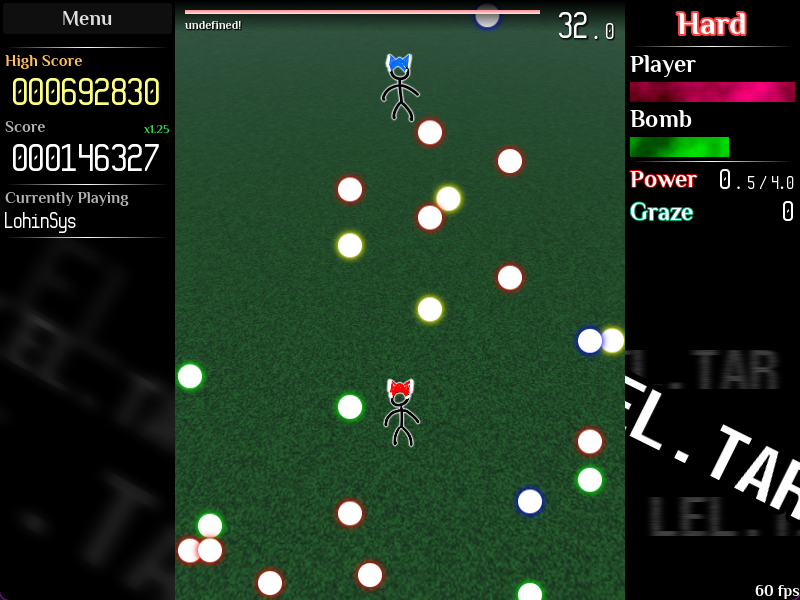
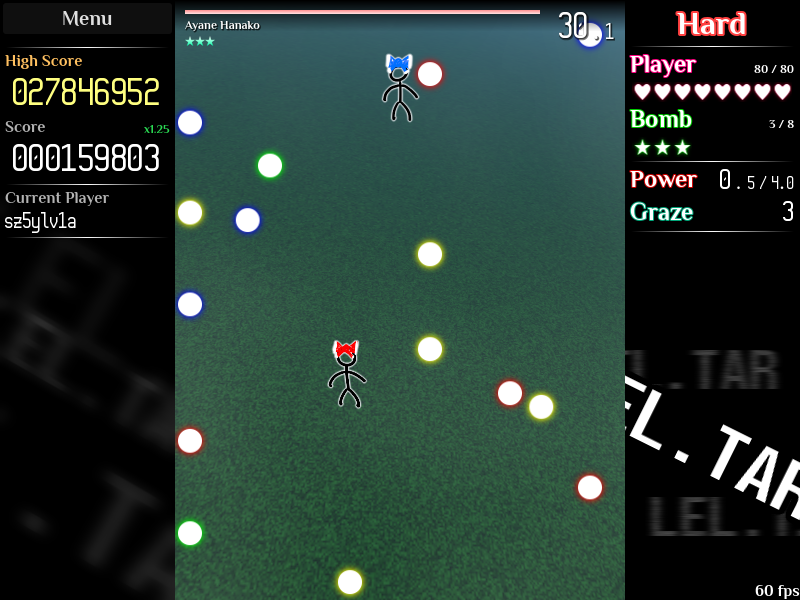
add known input related bugs to about, and the same unfinished disclaimer to homepage

diff --git a/src/components/pages/About.vue b/src/components/pages/About.vue
@@ -19,21 +19,21 @@
 					<tr>
 						<th scope="col">Action</th>
 						<th scope="col">Keyboard</th>
-						<th scope="col">Controller (Xbox/Nintendo)</th>
-						<th scope="col">Controller (PlayStation)</th>
+						<th scope="col">Controller (Xbox/Nintendo) <sup class="text-warning">3</sup></th>
+						<th scope="col">Controller (PlayStation) <sup class="text-warning">3</sup></th>
 					</tr>
 				</thead>
 				<tbody class="table-group-divider">
 					<tr>
 						<th scope="row">Move</th>
-						<td><kbd>&#x1f808;</kbd> <kbd>&#x1f80b;</kbd> <kbd>&#x1f809;</kbd> <kbd>&#x1f80a;</kbd> / <kbd>W</kbd> <kbd>A</kbd> <kbd>S</kbd> <kbd>D</kbd> / <kbd>1</kbd> <kbd>2</kbd> <kbd>3</kbd> <kbd>5</kbd> <sub><em>(Numpad)</em></sub></td>
+						<td><kbd>&#x1f808;</kbd> <kbd>&#x1f80b;</kbd> <kbd>&#x1f809;</kbd> <kbd>&#x1f80a;</kbd> / <kbd>W</kbd> <kbd>A</kbd> <kbd>S</kbd> <kbd>D</kbd> / <kbd>1</kbd> <kbd>2</kbd> <kbd>3</kbd> <kbd>5</kbd> <sub><em>(Numpad)</em></sub> <sup class="text-info">4</sup></td>
 						<td><span class="xbox-btns">S</span> / <span class="xbox-btns">&lt;</span></td>
 						<td><span class="ps-btns">S</span> / <span class="ps-btns">&lt;</span></td>
 					</tr>
 					<tr>
 						<th scope="row">Shoot</th>
 						<td><kbd>Y</kbd> / <kbd>Z</kbd></td>
-						<td><span class="xbox-btns">a</span> / <span class="switch-btns">b</span><sup>1</sup></td>
+						<td><span class="xbox-btns">a</span> / <span class="switch-btns">b</span> <sup>1</sup></td>
 						<td class="ps-btns">x</td>
 					</tr>
 					<tr>
@@ -45,19 +45,21 @@
 					<tr>
 						<th scope="row">Bomb</th>
 						<td><kbd>X</kbd></td>
-						<td><span class="xbox-btns">b</span> / <span class="switch-btns">a</span><sup>1</sup></td>
+						<td><span class="xbox-btns">b</span> / <span class="switch-btns">a</span> <sup>1</sup></td>
 						<td><span class="ps-btns">c</span></td>
 					</tr>
 					<tr>
 						<th scope="row">Pause</th>
 						<td><kbd>Esc</kbd></td>
 						<td>Start / <span class="xbox-btns">m</span></td>
-						<td>Start / <span class="ps-btns">o</span><sup>2</sup></td>
+						<td>Start / <span class="ps-btns">o</span> <sup>2</sup></td>
 					</tr>
 				</tbody>
 				<caption class="pb-0">
 					<p class="mb-0"><sup>1</sup> A and B button positions are flipped on Nintendo controllers</p>
 					<p class="mb-0"><sup>2</sup> PS4 and later controllers have the Start button replaced as Options</p>
+					<p class="mb-0 text-warning" style="opacity:85%;"><sup>3</sup> <strong>Controller support is experimental and might not work at all in most cases!!</strong></p>
+					<p class="mb-0 text-info" style="opacity:85%;"><sup>4</sup> <strong>Numpad keys are currently producing glitchy behaviour with movement when shooting and focusing are held down too.</strong> I recommend playing with arrow keys instead for now until further notice</p>
 				</caption>
 			</table>
 		</div>

diff --git a/src/components/pages/Home.vue b/src/components/pages/Home.vue
@@ -49,6 +49,14 @@ const upsell_b2 = "placeholder image"
 		</button>
 	</div>
 	
+	<div class="pt-4 px-5">
+		<div class="container-xxl">
+			<div class="alert alert-info d-flex gap-2" role="alert">
+				<div>&#x2139;</div>
+				<div><strong>This game is currently in a very unfinished state!!</strong> If you have any high expectations about this, don't expect anything good, nor should you spam and complain in my inbox about that.</div>
+			</div>
+		</div>
+	</div>
 	<div class="text-start py-5 px-5">
 		<div class="container-xxl" id="upsell1">
 			<div class="row">
